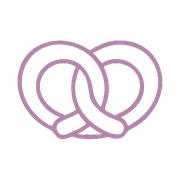
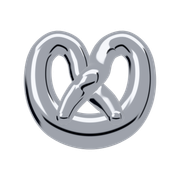
Replace the pink pretzel mark with a chrome balloon pretzel
The mark is now rendered from the same rope as the 3D chapters, inflated
and in polished silver, so it reads in light and dark mode; it squishes
like a jelly charm on hover. scripts/render-logo.mjs photographs it from
the dev-only /logo-render page and writes the mark, favicons and the
home-screen icon. New filename so no image cache serves the old one.

The last chapter's mauve pretzel becomes matcha, so nothing pink is left.

diff --git a/app/book/pretzel-geometry.ts b/app/book/pretzel-geometry.ts
@@ -18,7 +18,7 @@ import { mergeGeometries } from "three/examples/jsm/utils/BufferGeometryUtils.js
 // about .86 units across, bottom at x = -.11. Each chapter of the story gets
 // its own kind: a coating, a topping and a slightly different twist.
 
-export type PretzelKind = "salt" | "sprinkles" | "chocolate" | "everything" | "cinnamon" | "mauve" | "filler";
+export type PretzelKind = "salt" | "sprinkles" | "chocolate" | "everything" | "cinnamon" | "matcha" | "filler" | "logo";
 
 type Topping = "salt" | "sprinkles" | "everything" | "cinnamon" | "none";
 type Bake = "pale" | "golden" | "toasty";
@@ -31,6 +31,7 @@ type Recipe = {
   rope?: number; // rope thickness, 1 = a classic soft pretzel
   size?: number; // across, 1 = .86 units
   wonk?: number; // how roughly it was twisted, 1 = a careful hand
+  lift?: number; // how far the crossing rides over the rope beneath, 1 = baked flat
 };
 
 // Six pretzels that should be told apart at a glance from across the bowl:
@@ -46,10 +47,12 @@ const RECIPES: Record<PretzelKind, Recipe> = {
   everything: { topping: "everything", bake: "toasty", rope: 1.05, size: 1.02, wonk: 3 },
   // Thin and crunchy, pale, crusted in cinnamon sugar.
   cinnamon: { topping: "cinnamon", bake: "pale", rope: .78, size: .96, wonk: 1 },
-  // Amy's colour: half dipped in mauve, flaky salt, a dark drizzle.
-  mauve: { topping: "salt", coat: "#b482aa", dip: "half", drizzle: "#3a2015", rope: 1, size: 1, wonk: .8 },
+  // Half dipped in matcha white chocolate, flaky salt, a white drizzle.
+  matcha: { topping: "salt", coat: "#9bb46a", dip: "half", drizzle: "#f6f1e7", rope: 1, size: 1, wonk: .8 },
   // The bowl's plain filling: small, thin, crunchy, so the chapters stand out.
   filler: { topping: "salt", bake: "golden", rope: .82, size: .9, wonk: 1 },
+  // The site's mark: a perfectly even, inflated pretzel (rendered by app/logo-render).
+  logo: { topping: "none", rope: 1.45, size: 1, wonk: 0, lift: 2.6 },
 };
 
 const rand = (seed: number) => {
@@ -86,7 +89,7 @@ const BAKES: Record<Bake, [Color, Color, Color]> = {
   golden: [new Color("#7a3410"), new Color("#b0601f"), new Color("#e8b574")],
   toasty: [new Color("#5a2a10"), new Color("#8f4f22"), new Color("#d8a46a")],
 };
-const SPRINKLES = ["#f4a7c3", "#8fc9f0", "#f7dd6b", "#9ad8b4", "#ffffff", "#c9a2c2"].map(c => new Color(c));
+const SPRINKLES = ["#f4a7c3", "#8fc9f0", "#f7dd6b", "#9ad8b4", "#ffffff", "#f6a35c"].map(c => new Color(c));
 
 function colourise(geometry: BufferGeometry, colour: Color) {
   const count = geometry.getAttribute("position").count;
@@ -109,7 +112,7 @@ export function createPretzelGeometry(lowDetail: boolean, kind: PretzelKind = "s
   // Each pretzel is twisted by hand, so no two quite match.
   const wonk = .03 * (recipe.wonk ?? 1);
   const curve = new CatmullRomCurve3(ROPE.map(([u, v, h], i) => new Vector3(
-    h,
+    h * (recipe.lift ?? 1),
     v + (rand(seed * 31 + i) - .5) * wonk,
     u + (rand(seed * 17 + i + 5) - .5) * wonk,
   )), false, "centripetal");

diff --git a/app/logo-render/logo-render.tsx b/app/logo-render/logo-render.tsx
@@ -1,0 +1,45 @@
+"use client";
+
+import { Environment, Lightformer } from "@react-three/drei";
+import { Canvas } from "@react-three/fiber";
+import { useMemo } from "react";
+import { MeshPhysicalMaterial, NeutralToneMapping } from "three";
+import { createPretzelGeometry } from "../book/pretzel-geometry";
+
+// The pretzel mark: the same rope as the 3D chapters, inflated and in
+// polished chrome, like a charm. Transparent background, square.
+function Mark() {
+  const { dough } = useMemo(() => createPretzelGeometry(false, "logo"), []);
+  const chrome = useMemo(() => new MeshPhysicalMaterial({ color: "#e4e6ea", metalness: 1, roughness: .14, clearcoat: 1, clearcoatRoughness: .06 }), []);
+  // Face the camera, lobes up, leaning back a touch so it reads as an object.
+  return <group rotation={[-.28, 0, 0]}>
+    <group rotation={[0, -Math.PI / 2, 0]}>
+      <mesh geometry={dough} material={chrome} position={[0, -0.01, 0]} />
+    </group>
+  </group>;
+}
+
+export default function LogoRender() {
+  return <div style={{ width: 1024, height: 1024, background: "transparent" }}>
+    <Canvas
+      id="logo"
+      orthographic
+      camera={{ position: [0, 0, 5], zoom: 1024 / 1.04 }}
+      dpr={1}
+      gl={{ alpha: true, antialias: true, preserveDrawingBuffer: true }}
+      onCreated={({ gl }) => { gl.setClearColor(0x000000, 0); gl.toneMapping = NeutralToneMapping; }}
+    >
+      {/* Chrome is only its reflections. Silver reads as a bright studio with
+          a few dark bands for the edges and the horizon to fall into. */}
+      <Environment resolution={512} frames={1}>
+        <color attach="background" args={["#b9bcc2"]} />
+        <Lightformer form="rect" intensity={2.2} position={[0, 5, 1]} scale={[10, 3, 1]} target={[0, 0, 0]} />
+        <Lightformer form="rect" intensity={3} position={[-3, 2, 3]} scale={[2.5, 3, 1]} target={[0, 0, 0]} />
+        <Lightformer form="rect" intensity={1} color="#0d0d10" position={[0, -1.6, 4]} scale={[12, 1.4, 1]} target={[0, 0, 0]} />
+        <Lightformer form="rect" intensity={1} color="#0d0d10" position={[4, 1, 1]} scale={[.8, 6, 1]} target={[0, 0, 0]} />
+        <Lightformer form="rect" intensity={1} color="#1c1d21" position={[-4, -1, -2]} scale={[3, 3, 1]} target={[0, 0, 0]} />
+      </Environment>
+      <Mark />
+    </Canvas>
+  </div>;
+}

diff --git a/app/globals.css b/app/globals.css
@@ -208,8 +208,20 @@ button:disabled { cursor: default; }
 /* === SITE HEADER === */
 .site-header-inner { display: flex; align-items: center; justify-content: space-between; gap: var(--space-5); padding-top: 22px; padding-bottom: var(--space-2); }
 /* The mark is a single-colour line drawing, painted in ink so it flips with the theme. */
-.site-mark { display: inline-flex; width: 40px; height: 40px; background: currentColor; color: var(--color-ink); -webkit-mask: url(/pretzel.png) center / contain no-repeat; mask: url(/pretzel.png) center / contain no-repeat; }
-.site-mark img { width: 40px; height: 40px; display: block; opacity: 0; }
+/* The mark is a chrome balloon pretzel (rendered by scripts/render-logo.mjs to /pretzel-mark.png).
+   It's silver, so it reads on paper and in dark mode alike; hovering
+   squishes it like a jelly charm. */
+.site-mark { display: inline-flex; width: 44px; height: 44px; }
+.site-mark img { width: 100%; height: 100%; object-fit: contain; filter: drop-shadow(0 2px 3px rgba(0, 0, 0, .18)); transform-origin: 50% 85%; }
+.site-mark:hover img, .site-mark:focus-visible img { animation: mark-squish .7s cubic-bezier(.3, .7, .3, 1); }
+@keyframes mark-squish {
+  0% { transform: scale(1, 1); }
+  18% { transform: scale(1.14, .84); }
+  38% { transform: scale(.9, 1.12); }
+  58% { transform: scale(1.05, .96); }
+  78% { transform: scale(.98, 1.02); }
+  100% { transform: scale(1, 1); }
+}
 .site-header nav { display: flex; align-items: center; gap: 22px; font-size: var(--text-sm); }
 .site-header nav a { color: var(--color-ink-soft); text-decoration: none; transition: color var(--ease); }
 .site-header nav a:hover { color: var(--color-ink); }

diff --git a/app/site-nav.tsx b/app/site-nav.tsx
@@ -10,7 +10,7 @@ export default function SiteNav({ active = null }: Props) {
     <header className="site-header">
       <a href="#main-content" className="skip-link">Skip to content</a>
       <div className="ui-column site-header-inner">
-        <Link href="/" className="site-mark" aria-label="Amy Zhou, home"><Image src="/pretzel.png" alt="" width={400} height={400} priority /></Link>
+        <Link href="/" className="site-mark" aria-label="Amy Zhou, home"><Image src="/pretzel-mark.png" alt="" width={400} height={400} priority /></Link>
         <nav aria-label="Main navigation">
           <Link href="/portfolio" aria-current={active === "portfolio" ? "page" : undefined}>Objects</Link>
           <Link href="/software" aria-current={active === "software" ? "page" : undefined}>Software</Link>

diff --git a/app/logo-render/page.tsx b/app/logo-render/page.tsx
@@ -1,0 +1,9 @@
+import { notFound } from "next/navigation";
+import LogoRender from "./logo-render";
+
+// Development only: renders the pretzel mark for scripts/render-logo.mjs to
+// photograph. Never part of the built site.
+export default function Page() {
+  if (process.env.NODE_ENV === "production") notFound();
+  return <LogoRender />;
+}

diff --git a/app/book/chapters.ts b/app/book/chapters.ts
@@ -45,7 +45,7 @@ export const bookChapters: BookChapter[] = [
 
 export const bookEnding: BookChapter = {
   id: "hi",
-  pretzel: "mauve",
+  pretzel: "matcha",
   title: "say hi",
   text: "that's the short version. everything else lives on the website: objects, and software to build objects. i love meeting people who make things.",
 };
